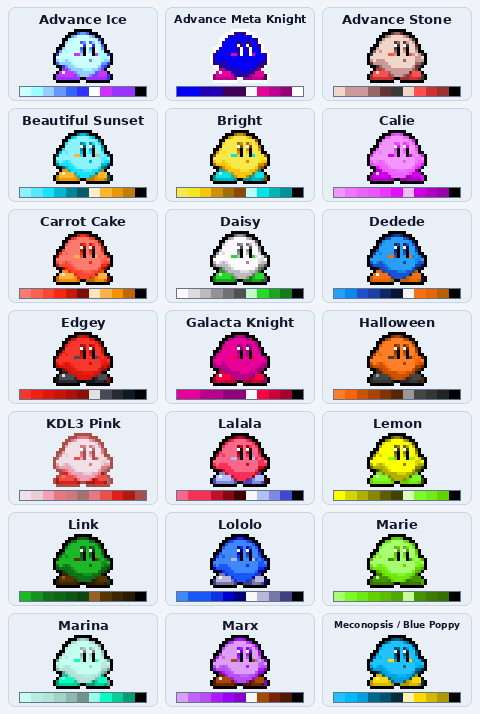
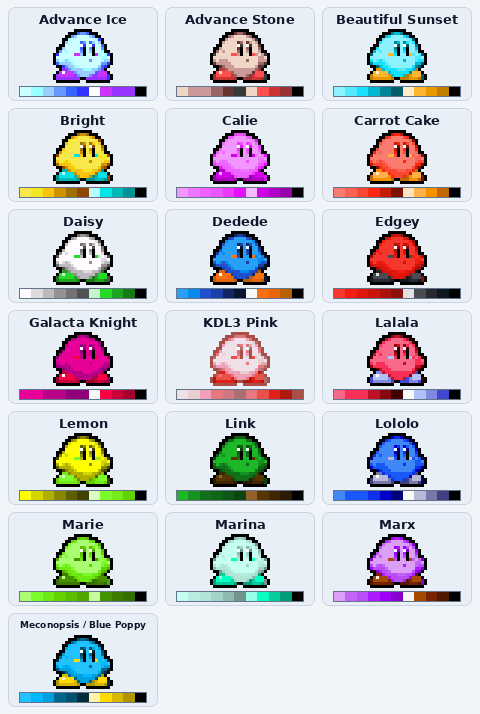
Document BizHawk and mGBA palette support and refine proposals

diff --git a/worlds/kirbyam/options.py b/worlds/kirbyam/options.py
@@ -375,9 +375,11 @@ def _build_starting_kirby_color_option() -> type[Choice]:
     `starting_kirby_color` weight mapping with that one line.
 
     Set to `random_color_per_room` to choose an initial color at generation,
-    then change to a different supported color whenever the connected BizHawk
-    client observes Kirby enter a different room. This mode takes priority over
-    a treasure-room paint choice; it does not erase the saved choice.
+    then change to a different supported color whenever a connected KirbyAM
+    client on BizHawk or mGBA observes Kirby enter a different room. Without a
+    connected client, the patched ROM applies only the initial color. This
+    mode takes priority over a treasure-room paint choice; it does not erase
+    the saved choice.
     """
         % kirby_color_names_for_docs()
     )

diff --git a/worlds/kirbyam/docs/color-palettes.md b/worlds/kirbyam/docs/color-palettes.md
@@ -11,7 +11,7 @@ Kirby & The Amazing Mirror:
   starting_kirby_color: cotton_candy
 ```
 
-**Pink** is the in-game default. Use `random` to pick a color when the seed is generated, or `random_color_per_room` to change color between rooms with the connected BizHawk client. These are modes, not separate palettes.
+**Pink** is the in-game default. Use `random` to pick a color when the seed is generated, or `random_color_per_room` to change color between rooms while connected through the KirbyAM client for BizHawk or mGBA. Without a connected client, the patched ROM applies only the initial color. These are modes, not separate palettes.
 
 ### Original colors
 
@@ -65,17 +65,16 @@ Kirby & The Amazing Mirror:
 
 ## Proposed colors
 
-These **41 reference palettes** are not in the game and cannot be selected in YAML. The sprite mockups show how the reference swatches look on normal Kirby; they have not been implemented or checked in gameplay. Names and colors may change.
+These **39 reference palettes** are not in the game and cannot be selected in YAML. The sprite mockups show how the reference swatches look on normal Kirby; they have not been implemented or checked in gameplay. Names and colors may change.
 
-![Kirby mockups and swatches for the first 21 proposals, Advance Ice through Meconopsis / Blue Poppy. The names are listed below.](color-palettes-proposals-1.png)
+![Kirby mockups and swatches for the first 19 proposals, Advance Ice through Meconopsis / Blue Poppy. The names are listed below.](color-palettes-proposals-1.png)
 
 ![Kirby mockups and swatches for the remaining 20 proposals, Mogeko through Waddle Dee. The names are listed below.](color-palettes-proposals-2.png)
 
 <details>
-<summary>All 41 proposed color names</summary>
+<summary>All 39 proposed color names</summary>
 
 - Advance Ice
-- Advance Meta Knight
 - Advance Stone
 - Beautiful Sunset
 - Bright
@@ -85,7 +84,6 @@ These **41 reference palettes** are not in the game and cannot be selected in YA
 - Dedede
 - Edgey
 - Galacta Knight
-- Halloween
 - KDL3 Pink
 - Lalala
 - Lemon

diff --git a/worlds/kirbyam/docs/en_Kirby & The Amazing Mirror.md b/worlds/kirbyam/docs/en_Kirby & The Amazing Mirror.md
@@ -76,7 +76,7 @@ Use exact item/location names from this world (or the item groups listed above) 
     - Candy Constellation's Master Hand + Crazy Hand fight is treated as one pooled boss target (`BOSS_DEFEAT_3`).
   - `defeat_area_boss`: Defeat the area boss selected by `configured_area_boss`. The default is Master Hand + Crazy Hand (`BOSS_DEFEAT_3`). Set `configured_area_boss` to `random` to have Archipelago choose one of the eight area bosses during option parsing. The old name `defeat_configured_area_boss` remains accepted as a compatibility alias. Replace the removed `defeat_random_hidden_area_boss` with `goal: defeat_area_boss` plus `configured_area_boss: random`.
 
-See the [Kirby color palette gallery](https://github.com/hasherwi/Archipelago-kirbyam/blob/main/worlds/kirbyam/docs/color-palettes.md) for all selectable colors and proposed additions.
+See the [Kirby color palette gallery](https://github.com/hasherwi/Archipelago-kirbyam/blob/main/worlds/kirbyam/docs/color-palettes.md) for all selectable colors and proposed additions. The `random_color_per_room` mode changes colors between rooms with a connected KirbyAM client on either BizHawk or mGBA. Without a connected client, the patched ROM applies only the initial color.
 
 ### Using Archipelago's built-in `random` choice
 
